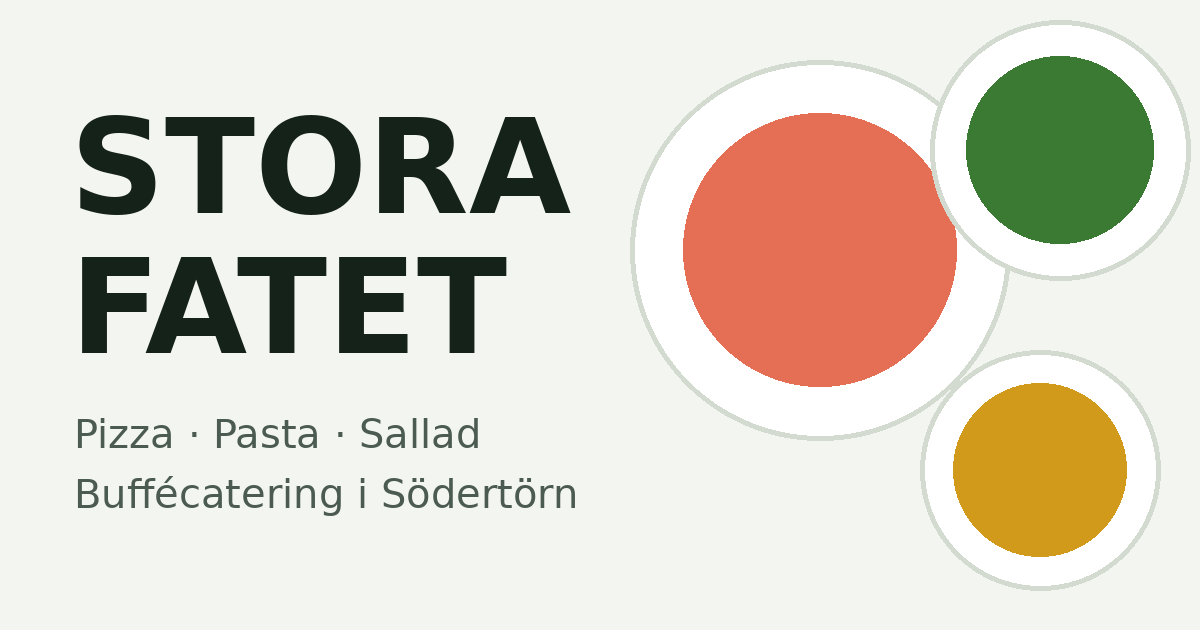
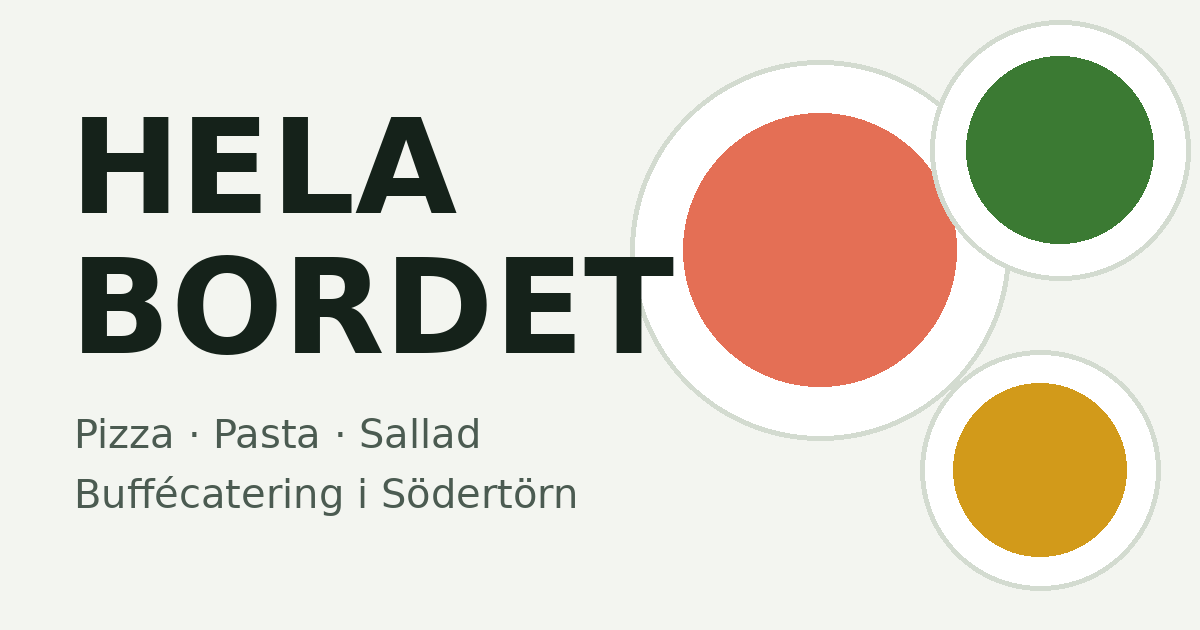
Update website 2026-10-26 21:47

Changed region(s): [[0.0925, 0.3921, 0.5858, 0.573], [0.0617, 0.181, 0.4933, 0.3619]]

diff --git a/index.html b/index.html
@@ -3,7 +3,7 @@
 <head>
 <meta charset="utf-8">
 <meta name="viewport" content="width=device-width,initial-scale=1,viewport-fit=cover">
-<title>Stora Fatet Catering</title>
+<title>Hela Bordet Catering</title>
 <meta name="description" content="Buffécatering i Södertörn: pizza, pasta och sallad till kontor, skolor, föreningar och fester. Välj buffé och tillval och se priset direkt. Från 10 personer.">
 <meta name="theme-color" content="#F3F5F0" media="(prefers-color-scheme: light)">
 <meta name="theme-color" content="#0E1511" media="(prefers-color-scheme: dark)">
@@ -11,9 +11,9 @@
 <link rel="icon" type="image/png" href="favicon.png">
 <link rel="apple-touch-icon" href="apple-touch-icon.png">
 <meta name="mobile-web-app-capable" content="yes">
-<meta name="apple-mobile-web-app-title" content="Stora Fatet">
+<meta name="apple-mobile-web-app-title" content="Hela Bordet">
 <meta property="og:type" content="website">
-<meta property="og:title" content="Stora Fatet Catering">
+<meta property="og:title" content="Hela Bordet Catering">
 <meta property="og:description" content="Buffécatering i Södertörn: pizza, pasta och sallad till kontor, skolor, föreningar och fester. Välj buffé och tillval och se priset direkt. Från 10 personer.">
 <meta property="og:image" content="https://cagdasbindak-hub.github.io/catering-app/share.png">
 <meta property="og:url" content="https://cagdasbindak-hub.github.io/catering-app/">
@@ -439,7 +439,7 @@ body.has-bar .strip-bottom{bottom:calc(env(safe-area-inset-bottom,0px) + 84px)}
 
 <header class="hdr">
   <div class="wrap hdr-in">
-    <a class="logo" href="#top" aria-label="Stora Fatet"><span class="dots" aria-hidden="true"><i></i><i></i><i></i></span>Stora Fatet</a>
+    <a class="logo" href="#top" aria-label="Hela Bordet"><span class="dots" aria-hidden="true"><i></i><i></i><i></i></span>Hela Bordet</a>
     <nav class="nav" aria-label="Meny">
       <a href="#bestall" data-i18n="nav_menu">Meny</a>
       <a href="#sa-funkar-det" data-i18n="nav_how">Så funkar det</a>
@@ -461,8 +461,8 @@ body.has-bar .strip-bottom{bottom:calc(env(safe-area-inset-bottom,0px) + 84px)}
       <div>
         <p class="eyebrow" data-i18n="hero_kicker">Buffécatering i Södertörn · från 10 personer</p>
         <h1 class="display" style="margin-top:14px">
-          <span class="l1" data-i18n="hero_l1">Pizza, pasta och sallad på</span>
-          <span class="l2" data-i18n="hero_l2">stora fat</span>
+          <span class="l1" data-i18n="hero_l1">Pizza, pasta och sallad till</span>
+          <span class="l2" data-i18n="hero_l2">hela bordet</span>
         </h1>
         <div class="kitchens" id="heroKitchens"></div>
         <p class="hero-sub" data-i18n="hero_sub">Buffé till kontor, skolor, föreningar och fester. Välj buffé och antal personer, lägg till det lilla extra och se priset direkt.</p>
@@ -580,7 +580,7 @@ body.has-bar .strip-bottom{bottom:calc(env(safe-area-inset-bottom,0px) + 84px)}
     <a class="back" href="#top" data-i18n="back_home">← Till sidan</a>
     <div class="section-head">
       <p class="eyebrow" data-i18n="in_kicker">Egen ikon på hemskärmen</p>
-      <h1 class="display view-h" id="inTitle" data-i18n="in_title">Installera Stora Fatet</h1>
+      <h1 class="display view-h" id="inTitle" data-i18n="in_title">Installera Hela Bordet</h1>
       <p data-i18n="in_why">Som app får sidan en egen ikon på hemskärmen, öppnas i helskärm och kan skicka notiser, precis som en vanlig app.</p>
     </div>
     <div id="inBody"></div>
@@ -600,7 +600,7 @@ body.has-bar .strip-bottom{bottom:calc(env(safe-area-inset-bottom,0px) + 84px)}
 
 <footer class="foot">
   <div class="wrap foot-in">
-    <span data-i18n="foot">Stora Fatet är ett arbetsnamn. Version 0.3.</span>
+    <span data-i18n="foot">Hela Bordet · Version 0.4.</span>
     <span class="foot-actions">
       <a class="linkbtn" href="#feedback" data-i18n="foot_fb">Feedback och förslag</a>
       <a class="linkbtn" href="#installera" id="footInstall" hidden data-i18n="in_link">Installera som app</a>
@@ -618,7 +618,7 @@ body.has-bar .strip-bottom{bottom:calc(env(safe-area-inset-bottom,0px) + 84px)}
   <button class="strip-x" type="button" id="fbStripX">×</button>
 </div>
 <div class="strip strip-bottom" id="inStrip" hidden>
-  <button class="strip-main" type="button" id="inStripGo"><svg viewBox="0 0 24 24" aria-hidden="true"><path d="M12 3v12m0 0-4.5-4.5M12 15l4.5-4.5M5 19h14" fill="none" stroke="currentColor" stroke-width="2" stroke-linecap="round" stroke-linejoin="round"/></svg><span data-i18n="in_nudge">Installera Stora Fatet som app 📲</span></button>
+  <button class="strip-main" type="button" id="inStripGo"><svg viewBox="0 0 24 24" aria-hidden="true"><path d="M12 3v12m0 0-4.5-4.5M12 15l4.5-4.5M5 19h14" fill="none" stroke="currentColor" stroke-width="2" stroke-linecap="round" stroke-linejoin="round"/></svg><span data-i18n="in_nudge">Installera Hela Bordet som app 📲</span></button>
   <button class="strip-x" type="button" id="inStripX">×</button>
 </div>
 
@@ -681,7 +681,8 @@ var ADDONS = [
 var GROUPS = [{id:'sauce',sv:'Såser',en:'Sauces'},{id:'side',sv:'Tillbehör',en:'Sides'},{id:'sweet',sv:'Dryck och dessert',en:'Drinks and dessert'}];
 var MIN = 10, FEE = 395, MAX_QTY = 2000;  // delivery: always 395 kr excl. VAT, no pickup, no free delivery
 var UPDATES = [
-  {d:'2026-10-26',sv:'Ny meny: pizza-, pasta-, sallads- och mixbuffé. Vi levererar i Södertörn, och sidan heter nu Stora Fatet (arbetsnamn). Priserna är exempel tills vidare.',en:'New menu: pizza, pasta, salad and mixed buffets. We deliver in Södertörn, and the site is now called Stora Fatet (working name). Prices are examples for now.'},
+  {d:'2026-10-26',sv:'Sidan heter nu Hela Bordet.',en:'The site is now called Hela Bordet.'},
+  {d:'2026-10-26',sv:'Ny meny: pizza-, pasta-, sallads- och mixbuffé. Vi levererar i Södertörn, och priserna är exempel tills vidare.',en:'New menu: pizza, pasta, salad and mixed buffets. We deliver in Södertörn, and prices are examples for now.'},
   {d:'2026-09-26',sv:'Nu beställer du buffé, med tydlig lista över vad som ingår. Priserna visas exklusive moms, leveransen kostar 395 kr och beställningen skickas direkt till oss.',en:'You now order buffets, with a clear list of what is included. Prices are shown excluding VAT, delivery is SEK 395 and your order goes straight to us.'},
   {d:'2026-09-26',sv:'Länken "Installera appen" syns nu alltid bredvid Feedback, även i appen, så att du kan visa andra hur man installerar.',en:'The "Install the app" link is now always next to Feedback, even in the app, so you can show others how to install it.'},
   {d:'2026-09-26',sv:'Notiser: tryck "Få notis när vi svarar" efter ditt förslag, så hör vi av oss direkt när svaret finns.',en:'Notifications: tap "Get notified when we reply" after your suggestion and we will let you know as soon as there is an answer.'},
@@ -709,7 +710,7 @@ var T = {
     test_banner:'Testversion. Beställningar skickas inte på riktigt än.',
     test_banner_site:'Testversion: priserna är exempel. Vi bekräftar varje beställning innan den gäller.',
     nav_menu:'Meny',nav_how:'Så funkar det',nav_faq:'Frågor',cta_order:'Beställ',
-    hero_kicker:'Buffécatering i Södertörn · från 10 personer',hero_l1:'Pizza, pasta och sallad på',hero_l2:'stora fat',
+    hero_kicker:'Buffécatering i Södertörn · från 10 personer',hero_l1:'Pizza, pasta och sallad till',hero_l2:'hela bordet',
     hero_sub:'Buffé till kontor, skolor, föreningar och fester. Välj buffé och antal personer, lägg till det lilla extra och se priset direkt.',
     hero_cta:'Bygg din beställning',hero_cta2:'Så funkar det',
     fact_from:'Från {p}/person exkl. moms',fact_min:'Minst 10 personer',fact_area:'Leverans i Södertörn',fact_fee:'Leverans {fee}',fact_lead:'Beställ 2 dagar innan',
@@ -739,10 +740,10 @@ var T = {
     s3_h:'Vi levererar',s3_p:'Buffén kommer i stora fat på utsatt tid, med servetter och bestick.',
     faq_kicker:'Innan du beställer',faq_h:'Vanliga frågor',
     upd_kicker:'Vad som är nytt',upd_h:'Senaste uppdateringar',
-    foot:'Stora Fatet är ett arbetsnamn. Version 0.3.',
+    foot:'Hela Bordet · Version 0.4.',
     fb_q:'Vad tycker du om sidan?',fb_btn:'Tyck till',fb_close:'Stäng',
     to_en:'Switch to English',theme_dark:'Byt till mörkt läge',theme_light:'Byt till ljust läge',
-    sum_title:'Beställning, Stora Fatet Catering',sum_vat:'exkl. moms',
+    sum_title:'Beställning, Hela Bordet Catering',sum_vat:'exkl. moms',
     art_label:'Pizza, pasta och sallad sedda ovanifrån',
     install:'Installera som app',ios_hint:'På iPhone: tryck på Dela och välj ”Lägg till på hemskärmen”.',
     nav_feedback:"Feedback",
@@ -840,20 +841,20 @@ var T = {
     nudge2:"Har du en idé? Skriv den här 💡",
     nudge3:"Vad tycker du om sidan? Tryck här",
     nudge4:"Något som krånglar? Berätta för oss",
-    in_nudge:"Installera Stora Fatet som app 📲",
+    in_nudge:"Installera Hela Bordet som app 📲",
     in_link:"Installera som app",
     in_kicker:"Egen ikon på hemskärmen",
-    in_title:"Installera Stora Fatet",
+    in_title:"Installera Hela Bordet",
     in_why:"Som app får sidan en egen ikon på hemskärmen, öppnas i helskärm och kan skicka notiser, precis som en vanlig app.",
     in_one_tap:"Installera",
-    in_done:"Stora Fatet är installerad. Öppna den från ikonen på hemskärmen.",
+    in_done:"Hela Bordet är installerad. Öppna den från ikonen på hemskärmen.",
     in_iphone:"Så gör du på iPhone",
     in_ios1:"Tryck på Dela-knappen",
     in_ios1_hint:"Längst ner i Safari (eller uppe till höger på iPad).",
     in_ios2:"Välj ”Lägg till på hemskärmen”",
     in_ios2_hint:"Scrolla ner i listan om du inte ser det direkt.",
     in_ios3:"Tryck på ”Lägg till”",
-    in_open:"Öppna Stora Fatet från den nya ikonen",
+    in_open:"Öppna Hela Bordet från den nya ikonen",
     in_android:"Så gör du på Android",
     in_and1:"Tryck på ⋮ uppe till höger",
     in_and2:"Välj ”Installera app” eller ”Lägg till på startskärmen”",
@@ -869,7 +870,7 @@ var T = {
     test_banner:'Test version. Orders are not sent for real yet.',
     test_banner_site:'Test version: prices are examples. We confirm every order before it applies.',
     nav_menu:'Menu',nav_how:'How it works',nav_faq:'FAQ',cta_order:'Order',
-    hero_kicker:'Buffet catering in Södertörn · from 10 people',hero_l1:'Pizza, pasta and salad on',hero_l2:'big platters',
+    hero_kicker:'Buffet catering in Södertörn · from 10 people',hero_l1:'Pizza, pasta and salad for',hero_l2:'the whole table',
     hero_sub:'Buffets for offices, schools, clubs and parties. Pick a buffet and the number of people, add the extras and see the price right away.',
     hero_cta:'Build your order',hero_cta2:'How it works',
     fact_from:'From {p}/person excl. VAT',fact_min:'Minimum 10 people',fact_area:'Delivery in Södertörn',fact_fee:'Delivery {fee}',fact_lead:'Order 2 days ahead',
@@ -899,10 +900,10 @@ var T = {
     s3_h:'We deliver',s3_p:'The buffet arrives in large dishes on time, with napkins and cutlery.',
     faq_kicker:'Before you order',faq_h:'Common questions',
     upd_kicker:"What's new",upd_h:'Latest updates',
-    foot:'Stora Fatet is a working name. Version 0.3.',
+    foot:'Hela Bordet · Version 0.4.',
     fb_q:'What do you think of the site?',fb_btn:'Feedback',fb_close:'Close',
     to_en:'Byt till svenska',theme_dark:'Switch to dark mode',theme_light:'Switch to light mode',
-    sum_title:'Order, Stora Fatet Catering',sum_vat:'excl. VAT',
+    sum_title:'Order, Hela Bordet Catering',sum_vat:'excl. VAT',
     art_label:'Pizza, pasta and salad seen from above',
     install:'Install as app',ios_hint:'On iPhone: tap Share and choose “Add to Home Screen”.',
     nav_feedback:"Feedback",
@@ -1000,20 +1001,20 @@ var T = {
     nudge2:"Got an idea? Write it here 💡",
     nudge3:"What do you think of the site? Tap here",
     nudge4:"Something not working? Tell us",
-    in_nudge:"Install Stora Fatet as an app 📲",
+    in_nudge:"Install Hela Bordet as an app 📲",
     in_link:"Install as app",
     in_kicker:"Your own icon on the home screen",
-    in_title:"Install Stora Fatet",
+    in_title:"Install Hela Bordet",
     in_why:"As an app the site gets its own icon on the home screen, opens full screen and can send notifications, just like a regular app.",
     in_one_tap:"Install",
-    in_done:"Stora Fatet is installed. Open it from the icon on your home screen.",
+    in_done:"Hela Bordet is installed. Open it from the icon on your home screen.",
     in_iphone:"On iPhone",
     in_ios1:"Tap the Share button",
     in_ios1_hint:"At the bottom of Safari (top right on iPad).",
     in_ios2:"Choose “Add to Home Screen”",
     in_ios2_hint:"Scroll down the list if you do not see it right away.",
     in_ios3:"Tap “Add”",
-    in_open:"Open Stora Fatet from the new icon",
+    in_open:"Open Hela Bordet from the new icon",
     in_android:"On Android",
     in_and1:"Tap ⋮ at the top right",
     in_and2:"Choose “Install app” or “Add to Home screen”",
@@ -1784,7 +1785,7 @@ route();
    Installing and the install strip live in the page itself (they need its texts). */
 (function () {
   'use strict';
-  var BUILD = '17a2a8ba7';
+  var BUILD = '17a2f331a';
   var CHECK_EVERY_MS = 5 * 60 * 1000;
   var opened = Date.now();
   function $(id) { return document.getElementById(id); }

diff --git a/sw.js b/sw.js
@@ -1,4 +1,4 @@
-// Stora Fatet service worker: makes the site installable and shows notifications
+// Hela Bordet service worker: makes the site installable and shows notifications
 // ("Ny feedback", "Svar på din feedback"). No fetch handler on purpose: the page is
 // always loaded fresh from the network, so a new version shows up right away.
 self.addEventListener('install', () => self.skipWaiting());
@@ -12,7 +12,7 @@ self.addEventListener('push', (event) => {
     data = { body: event.data ? event.data.text() : '' };
   }
   event.waitUntil(
-    self.registration.showNotification(data.title || 'Stora Fatet', {
+    self.registration.showNotification(data.title || 'Hela Bordet', {
       body: data.body || '',
       icon: 'icon-192.png',
       badge: 'icon-192.png',
